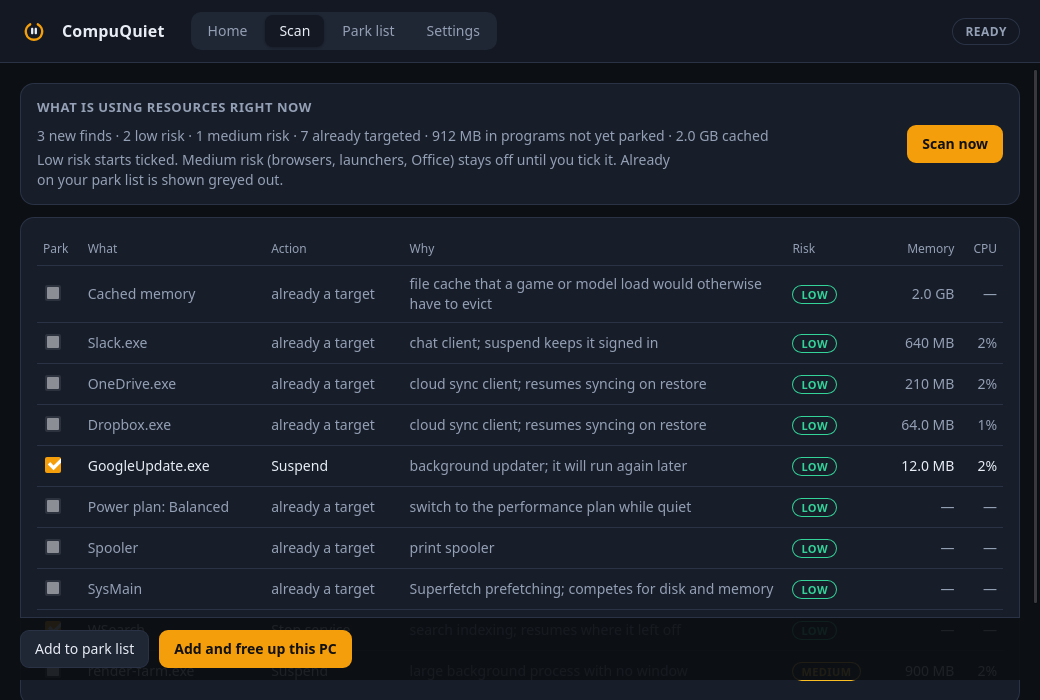
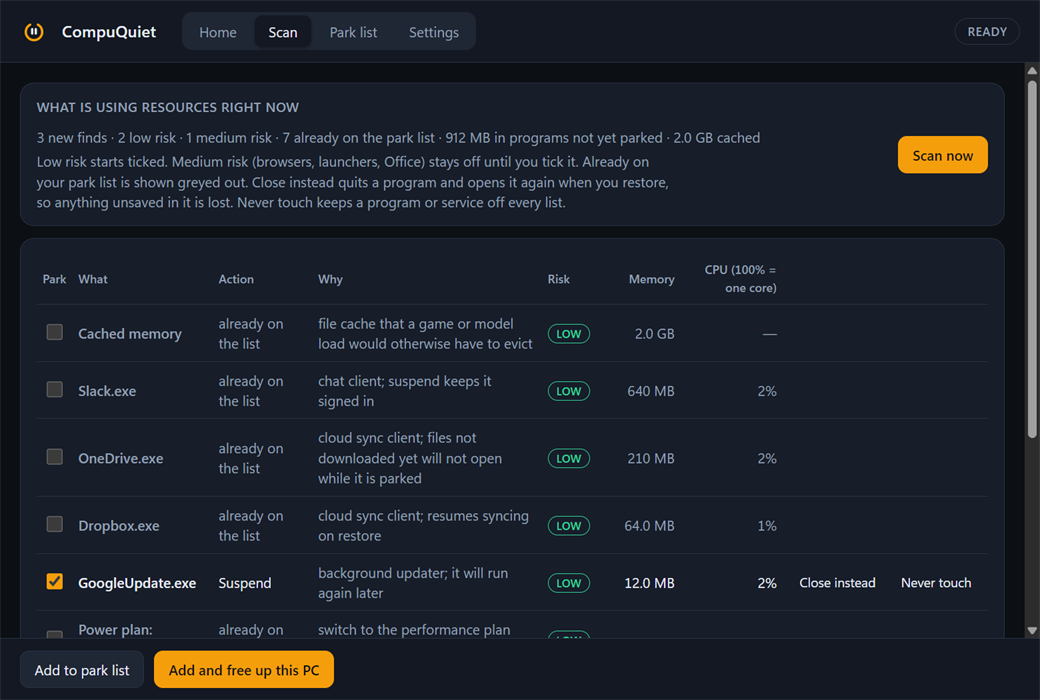
Write the fake lms tool from a shell of its own so a parallel test cannot leave it busy, and refresh the README screenshots for 1.2.0.

diff --git a/crates/cq-platform/src/ai/tests.rs b/crates/cq-platform/src/ai/tests.rs
@@ -47,22 +47,25 @@ fn fake_lms(dir: &Path, listing: &str) -> String {
 
 #[cfg(unix)]
 fn fake_lms(dir: &Path, listing: &str) -> String {
-    use std::os::unix::fs::PermissionsExt;
     let path = dir.join("lms");
-    std::fs::write(
-        &path,
-        format!(
-            "#!/bin/sh
+    let script = format!(
+        "#!/bin/sh
 case \"$1\" in
   ps) echo '{listing}' ;;
   unload) echo \"$2\" > \"$(dirname \"$0\")/unloaded.txt\" ;;
   *) exit 1 ;;
 esac
 "
-        ),
-    )
-    .unwrap();
-    std::fs::set_permissions(&path, std::fs::Permissions::from_mode(0o755)).unwrap();
+    );
+    // Written by a shell of its own, not by this process: a file this process
+    // had open for writing could be inherited by a child another test forks
+    // at that moment, and Linux then refuses to run it ("Text file busy").
+    let written = std::process::Command::new("sh")
+        .args(["-c", "printf '%s' \"$1\" > \"$2\" && chmod 755 \"$2\""])
+        .args(["sh", &script, path.to_str().unwrap()])
+        .status()
+        .unwrap();
+    assert!(written.success());
     path.to_str().unwrap().to_string()
 }
 
